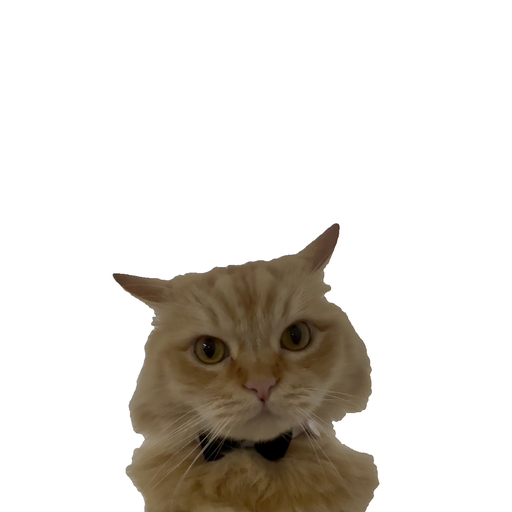
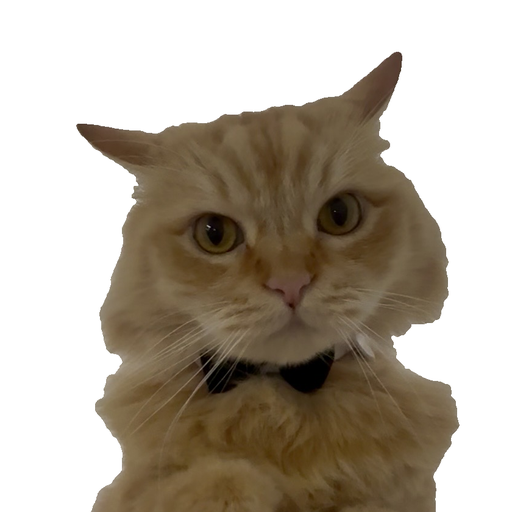
Fix team page layout and resize Nacho photo
- Make team grid responsive: 1 col mobile, 2 col tablet, 4 col desktop
- Re-crop Nacho photo larger and centered for consistent sizing

diff --git a/components/AboutUsTeam.vue b/components/AboutUsTeam.vue
@@ -14,7 +14,7 @@ const [visible, container] = useVisible();
       </div>
       <div
         ref="container"
-        class="flex space-x-16 items-center justify-center"
+        class="grid grid-cols-1 gap-8 md:grid-cols-2 xl:grid-cols-4 justify-items-center px-4 md:px-8"
       >
         <div
           v-for="team in aboutUsTeams"
